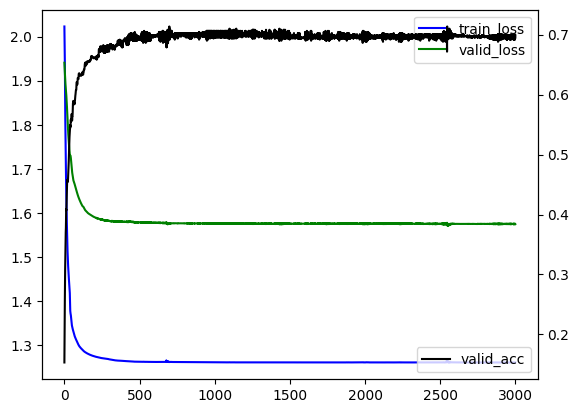
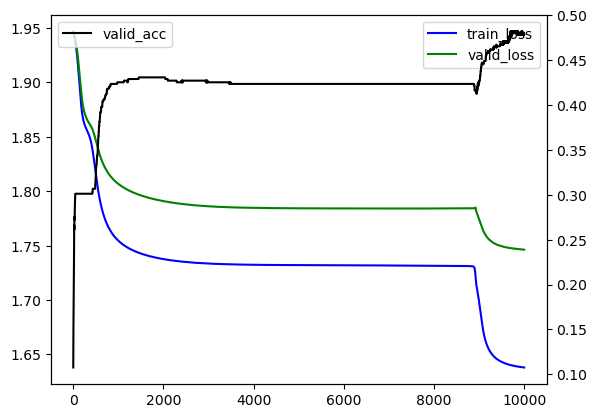
no

Changed region(s): [[0.0, 0.0, 0.9948, 0.9879], [0.2487, 0.6102, 0.8083, 0.7845]]

diff --git a/src/process.py b/src/process.py
@@ -40,12 +40,15 @@ print(matrix_.shape)
 
 train_len = num // 10 * 8
 valid_len = num - train_len
-train_adjacency = matrix_[:train_len, :train_len]
-valid_adjacency = matrix_[train_len:, train_len:]
+# matrix_ = normalization_laplacian(matrix_)
+train_adjacency = normalization_laplacian(matrix_[:train_len, :train_len])
+valid_adjacency = normalization_laplacian(matrix_[train_len:, train_len:])
+# train_adjacency = matrix_[:train_len, :train_len]
+# valid_adjacency = matrix_[train_len:, train_len:]
 train_features = features[:train_len, ...]
 valid_features = features[train_len:, ...]
 train_labels = labels[:train_len, ...]
 valid_labels = labels[train_len:, ...]
-matrix_ = normalization_laplacian(matrix_)
+
 
 print()

diff --git a/src/net.py b/src/net.py
@@ -38,6 +38,8 @@ class Net(nn.Module):
         self.gcn1 = GCN(input_dim=input_dim, output_dim=16)
         # self.gcn3 = GCN(input_dim=16, output_dim=32)
         # self.gcn4 = GCN(input_dim=32, output_dim=16)
+        self.linear = nn.Linear(16, 32)
+        self.linear2 = nn.Linear(32, 16)
         self.gcn2 = GCN(input_dim=16, output_dim=7)
         self.soft = nn.Softmax(dim=1)
 
@@ -46,5 +48,5 @@ class Net(nn.Module):
         # h = F.relu(self.gcn3(adjacency, h))
         # h = F.relu(self.gcn4(adjacency, h))
         h = self.gcn2(adjacency, h)
-        out = self.soft(h)
-        return out
+        # out = self.soft(h)
+        return h

diff --git a/src/train_utils.py b/src/train_utils.py
@@ -36,6 +36,6 @@ def pic_loss_acc():
         ax2.plot([i for i in range(len_train)], valid_acc, '-', label='valid_acc', color='black')
         ax.legend()
         ax2.legend()
-        plt.savefig('loss_acc_line_final0.png', bbox_inches='tight')
+        plt.savefig('loss_acc_line_final5.png', bbox_inches='tight')
 pic_loss_acc()
 

diff --git a/src/train.py b/src/train.py
@@ -4,7 +4,7 @@ import net
 import train_utils
 
 # 超参数定义
-LEARNING_RATE = 1e-2  # 学习率
+LEARNING_RATE = 1e-3  # 学习率
 WEIGHT_DACAY = 5e-4  # 正则化系数
 EPOCHS = 3000  # 完整遍历训练集的次数
 DEVICE = "cuda" if torch.cuda.is_available() else "cpu"  # 设备
